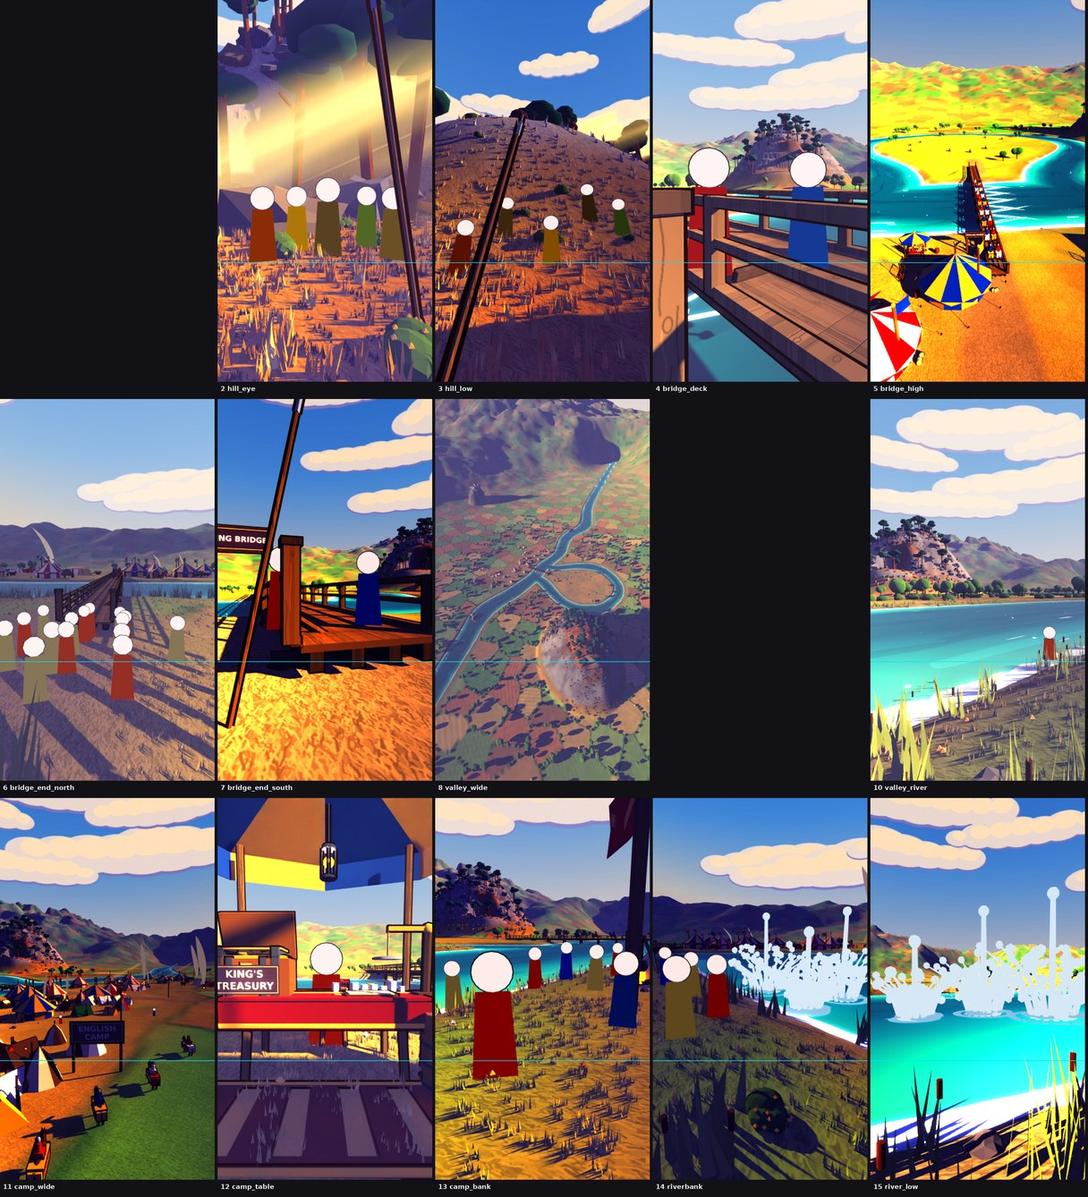
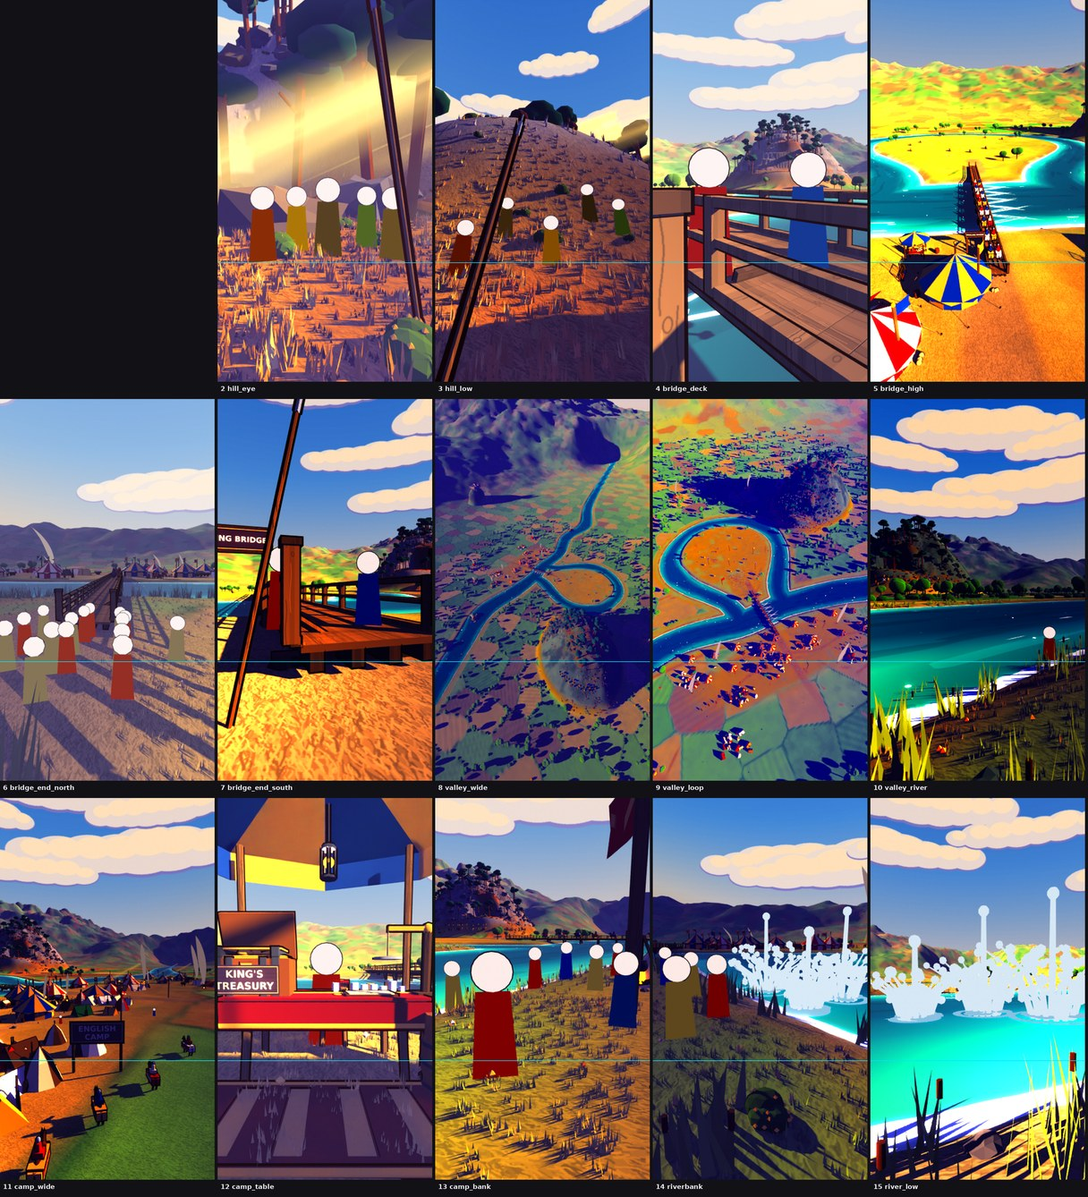
film21 s10: scripts

Changed region(s): [[0.375, 0.3064, 1.0, 0.6741]]

diff --git a/film/v3/set3d21/stirling.py b/film/v3/set3d21/stirling.py
@@ -18,7 +18,7 @@ D = 1.7
 HEIGHT = {'scot': 1.70, 'wallace': 1.92, 'moray': 1.80, 'cressingham': 1.78, 'surrey': 1.66, 'knight': 1.78, 'foot': 1.68, 'archer': 1.66, 'squire': 1.55}
 STATE = {'P': None, 'ink_t': 0.012, 'anim': {}, 'loc': None, 'preset': None, 'cam': (0, 0, 0)}
 CACHE = os.path.join(HERE, 'cache'); os.makedirs(CACHE, exist_ok=True)
-TERRAIN_V = 29
+TERRAIN_V = 33
 
 def hex_lin(h):
     h = h.lstrip('#'); c = [int(h[i:i + 2], 16) / 255.0 for i in (0, 2, 4)]
@@ -45,8 +45,8 @@ def _pal():
     add('wood', '#8a6a45', tex=wood, tile=1.5, tint=True, ink=True, sm=(0.8, 1.0, 1.12))
     add('wood_dk', '#5e4630', tex=wooddk, tile=1.5, tint=True, ink=True, sm=(0.8, 1.0, 1.12))
     add('deck', '#8c6c48', tex=wood, tile=1.5, tint=True, ink=False, sm=(0.8, 1.0, 1.12), rot=90.0)
-    add('rock', '#77737f', tint=True, ink=False, sm=(0.85, 0.98, 1.1), afl=0.15)
-    add('rock_warm', '#85766d', tint=True, ink=False, sm=(0.85, 0.98, 1.1))
+    add('rock', '#566864', tint=True, ink=False, sm=(0.85, 0.98, 1.1), afl=0.15)
+    add('rock_warm', '#5e6a5c', tint=True, ink=False, sm=(0.85, 0.98, 1.1))
     add('heather', '#7a4f72', tint=True, sm=(0.6, 1.05, 1.0), afl=0.18)
     add('bracken', '#b0742f', tint=True, sm=(0.85, 1.0, 1.15))
     add('grass', '#6c9a3a', tint=True, sm=(0.75, 1.0, 1.15), afl=0.2)
@@ -429,7 +429,7 @@ def lane_w(X, Y):
     return w
 def terrain_colour(X, Y, z, sd, hh, cm):
     m1 = fbm(X / 38.0, Y / 38.0, 7, 3); m2 = fbm(X / 13.0, Y / 13.0, 9, 3); m3 = fbm(X / 5.0, Y / 5.0, 21, 2)
-    G1, G2, G3, G4 = hex_rgb('#b49a44'), hex_rgb('#c8a64a'), hex_rgb('#7c9a38'), hex_rgb('#b8a840')
+    G1, G2, G3, G4 = hex_rgb('#b8aa52'), hex_rgb('#c6b45c'), hex_rgb('#7c9a38'), hex_rgb('#b8a840')
     col = G1 + (G2 - G1) * smooth(0.5, 0.78, m1)[..., None]
     col = col + (G3 - col) * (smooth(0.58, 0.78, m2) * 0.55)[..., None]; col = col + (G4 - col) * (smooth(0.62, 0.8, m3) * 0.4)[..., None]
     # river margins: lush, then mud
@@ -438,7 +438,7 @@ def terrain_colour(X, Y, z, sd, hh, cm):
     bed = smooth(-1.0, -2.6, sd); col = col + (hex_rgb('#3a5a60') - col) * bed[..., None]
     # patchwork fields: irregular cells of 6 tints (green-gold, ochre, heather brown, pale green, gold, plough) with hedgerows and furrows
     fid, he = vor_fields(X, Y)
-    pal = np.array([hex_rgb('#8fb83e'), hex_rgb('#cfa94c'), hex_rgb('#b08a4e'), hex_rgb('#a8c84a'), hex_rgb('#dcc04c'), hex_rgb('#6fa63c'), hex_rgb('#c8903e'), hex_rgb('#86a840')]); fc = pal[np.minimum((fid * 8).astype(int), 7)]
+    pal = np.array([hex_rgb('#7aa856'), hex_rgb('#bcb47c'), hex_rgb('#6a9a4c'), hex_rgb('#88ad5e'), hex_rgb('#c2ba84'), hex_rgb('#5f8f48'), hex_rgb('#847a5a'), hex_rgb('#74a050')]); fc = pal[np.minimum((fid * 8).astype(int), 7)]
     ang = fid * 6.28; fur = 0.5 + 0.5 * np.sin((X * np.cos(ang) + Y * np.sin(ang)) * 1.1); fc = fc * (0.93 + 0.12 * m3[..., None]) * (0.93 + 0.12 * fur[..., None] * (fid > 0.55)[..., None])
     hedge = smooth(2.2, 0.4, he); fc = fc + (hex_rgb('#3a6a2e') - fc) * hedge[..., None] * 0.9
     ex = (X / 80.0) ** 2 + ((Y - 125.0) / 92.0) ** 2; fw = smooth(0.9, 1.15, ex) * smooth(5.0, 11.0, sd) * smooth(6.0, 1.0, np.maximum(hh, 0))
@@ -455,13 +455,13 @@ def terrain_colour(X, Y, z, sd, hh, cm):
     w = w * smooth(-0.5, 1.0, sd); col = col + (dirt - col) * w[..., None]
     # hill: heather, bracken, grass skirt, rock
     h2 = np.maximum(hh, 0); wh = smooth(1.0, 10.0, h2)
-    H1, H2, H3, BR = hex_rgb('#86583c'), hex_rgb('#946040'), hex_rgb('#6c4a34'), hex_rgb('#c0802c')
-    hc = H1 + (H2 - H1) * smooth(0.4, 0.7, m2)[..., None]; hc = hc + (H3 - hc) * (smooth(0.55, 0.8, m3) * 0.6)[..., None]; hc = hc + (BR - hc) * (smooth(0.5, 0.7, fbm(X / 11.0, Y / 11.0, 33, 3)) * 0.85)[..., None]
+    H1, H2, H3, BR = hex_rgb('#6e5a3a'), hex_rgb('#5c6a3c'), hex_rgb('#46593a'), hex_rgb('#b0803a')
+    hc = H1 + (H2 - H1) * smooth(0.4, 0.7, m2)[..., None]; hc = hc + (H3 - hc) * (smooth(0.55, 0.8, m3) * 0.6)[..., None]; hc = hc + (BR - hc) * (smooth(0.5, 0.7, fbm(X / 11.0, Y / 11.0, 33, 3)) * 0.3)[..., None]
     grass_skirt = smooth(24.0, 6.0, h2) * 0.6; hc = hc + (col - hc) * grass_skirt[..., None]
     col = col + (hc - col) * wh[..., None]
     e = 0.6; hx = (hill_h(X + e, Y)[0] - hill_h(X - e, Y)[0]) / (2 * e); hy = (hill_h(X, Y + e)[0] - hill_h(X, Y - e)[0]) / (2 * e); slope = np.hypot(hx, hy)
     rk = smooth(0.62, 1.05, slope) * smooth(6, 16, h2) + cm * 0.85 * smooth(12, 30, h2); rk = np.clip(rk, 0, 1)
-    R1, R2 = hex_rgb('#9a97a2'), hex_rgb('#77727e'); rc = R1 + (R2 - R1) * smooth(0.4, 0.75, m2)[..., None]; rc = rc + (hex_rgb('#a9a79a') - rc) * (smooth(0.62, 0.8, m3) * 0.6)[..., None]
+    R1, R2 = hex_rgb('#62746e'), hex_rgb('#3f504c'); rc = R1 + (R2 - R1) * smooth(0.4, 0.75, m2)[..., None]; rc = rc + (hex_rgb('#6c7e70') - rc) * (smooth(0.62, 0.8, m3) * 0.6)[..., None]
     rk = rk * (1 - smooth(PAD[2] + 12.0, PAD[2] + 2.0, np.hypot(X - PAD[0], Y - PAD[1])) * 0.95); col = col + (rc - col) * rk[..., None]
     # castle rock
     ch = castle_h(X, Y); crk = smooth(4.0, 25.0, ch); cg = rc * 0.95 + (hex_rgb('#7a9a46') - rc * 0.95) * (smooth(0.5, 0.7, m1) * 0.2)[..., None]
@@ -634,10 +634,7 @@ def grade(path, sat=1.07, bloom=0.5, scale=None, gamma=1.28):
     vv = tuple(STATE.get('vivid') or VIVID.get(STATE.get('preset'), (1.4, 1.3))); vg, vs = vv[0], vv[1]; ve = vv[2] if len(vv) > 2 else 1.0
     im = np.clip(im * ve, 0, 1) ** vg; mx = im.max(-1, keepdims=True); im = np.clip(mx - (mx - im) * vs, 0, 1)
     Image.fromarray((im * 255 + 0.5).astype(np.uint8)).save(path)
-VIVID = {'bridge_deck': (1.78, 1.15), 'bridge_end_north': (1.38, 1.23), 'bridge_end_south': (1.9, 1.15), 'bridge_high': (1.9, 1.15),
-         'camp_bank': (1.52, 1.3), 'camp_table': (1.05, 1.1), 'camp_wide': (1.9, 1.15), 'hill_eye': (0.8, 1.31), 'hill_low': (1.38, 1.15),
-         'hill_over': (1.48, 1.15), 'river_low': (1.9, 1.3), 'riverbank': (1.5, 1.6), 'valley_loop': (1.07, 1.71), 'valley_river': (2.28, 1.18),
-         'valley_wide': (1.11, 1.83), 'P_TOP': (1.4, 1.1, 0.75)}
+VIVID = {'bridge_deck': (1.78, 1.15), 'bridge_end_north': (1.38, 1.23), 'bridge_end_south': (1.9, 1.15), 'bridge_high': (1.9, 1.15), 'camp_bank': (1.52, 1.3), 'camp_table': (1.05, 1.1), 'camp_wide': (1.9, 1.15), 'hill_eye': (0.8, 1.31), 'hill_low': (1.38, 1.15), 'hill_over': (1.48, 1.15), 'river_low': (1.9, 1.3), 'riverbank': (1.5, 1.6), 'valley_loop': (1.35, 1.15, 0.8), 'valley_river': (2.28, 1.3, 1.0), 'valley_wide': (1.3, 1.2, 0.85), 'P_TOP': (1.4, 1.1, 0.75), 'P_A': (1.3, 1.2, 0.85), 'P_HOOK': (1.4, 1.1, 0.75)}
 def render(path, mode='final', samples=None, do_grade=True):
     sc = bpy.context.scene; setup_render(sc, mode, samples); sc.render.filepath = path; t = time.time(); bpy.ops.render.render(write_still=True); dt = time.time() - t
     if do_grade: grade(path)
@@ -1313,6 +1310,24 @@ def spear_wall(n, ranks, rs, y0=27.0, half=9.0):
     Bp = Batch(87)
     for sx in (-half - 1.0, half + 1.0): banner(Bp, (sx, y0 - 0.5, float(ground(sx, y0))), 5.0, 190, 't_saltire', 't_white', 'saltire', rs, size=(2.2, 1.5))
     Bp.finalize('wall_banners'); return cnt
+def scots_wide_line(n=26, banners=3, scale=1.7, toward=(445.0, 244.0), hh0=30.0):
+    """a version of the Scots line for the far wide shots (valley_wide, P_A): a row (2 ranks) along a contour of Abbey Craig (height `hh0`) on the side that FACES `toward` (default: the
+    far-wide camera, north-east), on open slope out from under the pines, in blue and ochre tunics scaled up (`scale`), with `banners` oversized blue saltire banners (14 m poles,
+    7 x 4.6 m cloth) that stay findable on a 360x640 sheet. preset key `scots_wide=True` or build_world(..., scots_wide=True). Returns the number of figures."""
+    B = Batch(88); rs = np.random.RandomState(13); cnt = 0; mats = ['t_saltire', 'thatch', 't_saltire', 'hay', 't_brown']; Bp = Batch(89); a_c = math.atan2(toward[1] - HILL_C[1], toward[0] - HILL_C[0]); pts = []
+    for rank in range(2):
+        for k in range(n // 2):
+            a = a_c + math.radians(-26 + 52 * (k + 0.5 * rank) / max(n // 2 - 1, 1))
+            for r_ in np.arange(120, 20, -1.0):
+                x = HILL_C[0] + r_ * math.cos(a) * 1.05; y = HILL_C[1] + r_ * 0.9 * math.sin(a)
+                if float(hill_h(np.array([x]), np.array([y]))[0][0]) > hh0 - 2.5 * rank: break
+            pts.append((x, y, rank))
+    for (x, y, rank) in pts:
+        z = float(ground(x, y)); m = mats[(cnt + rank) % 5]
+        B.box(m, (x, y, z + 0.8 * scale), (0.8 * scale, 0.6 * scale, 1.5 * scale)); B.sphere('iron', (x, y, z + 1.7 * scale), 0.22 * scale, seg=6, rings=4); spear(B, (x + 0.4 * scale, y, z), tilt=(rs.uniform(-0.2, 0.2), rs.uniform(-0.2, 0.2)), h=3.4 * scale); cnt += 1
+    for i in range(banners):
+        x, y, _ = pts[int((i + 0.5) * len(pts) / 2 / banners)]; banner(Bp, (x, y, float(ground(x, y))), 14.0, math.degrees(a_c) + 90.0, 't_saltire', 't_white', 'saltire', rs, size=(7.0, 4.6))
+    B.finalize('scots_wide', ink=False); Bp.finalize('scots_wide_banners'); return cnt
 def crowd_loop(A, pr):
     """~120 tiny placeholder troops for valley_loop: English inside the loop meadow and the neck, a two-by-two column of mounted knights on the bridge, a queue and
     groups on the south bank; Scots along the hill's lower slope."""
@@ -1411,7 +1426,7 @@ PRESETS['camp_bank'] = dict(loc='camp', signs=['stirling'], shafts='smoke', cam=
     veg=dict(seed=6, half=20, tuft_k=1.3, tuft_gain=1.5, grass=[(1.5, 9, 420, 0.08, 0.13), (9, 40, 700, 0.12, 0.2)], flowers=700, reeds=[(6, 70, 500)]),
     fg_banner=(7.0, 2.3), clear=[(-95.0, -15.0, 9.0)], fg_banner_yaw=30, fg_spears=[], fg_barrels=[(3.0, 1.7)], fg_rope=True, camp_fg=camp_fg)
 PRESETS['valley_loop'] = dict(loc='valley', cam=(-72.0, -133.0, 229.0), look=(12.0, 36.0, 0.0), sd=300.0, lens=21.0, marks=lambda A: {}, veg=None, farms=True, hill2=True, heather_n=900, gorse_n=200, crag_n=140, pine_n=60,
-    over=dict(foam_k=3.0, glit_s=0.35, glit_t=0.12, glit_stretch=1.0, wake_k=4.0, haze_max=0.2, world=0.0, lift=(0.03, 0.028, 0.07), key=(2.05, 1.58, 0.84), shade=(0.12, 0.10, 0.30), tint=(0.065, 0.052, 0.15), sun_dir=(-0.68, 0.68, -0.28)))
+    over=dict(shallow='#2e9a92', sheen_k=0.45, foam_k=1.4, glit_s=0.35, glit_t=0.12, glit_stretch=1.0, wake_k=4.0, haze_max=0.2, world=0.0, lift=(0.03, 0.028, 0.07), key=(2.05, 1.58, 0.84), shade=(0.12, 0.10, 0.30), tint=(0.065, 0.052, 0.15), sun_dir=(-0.68, 0.68, -0.28)))
 for _n, _fn in (('hill_over', fg_hill), ('camp_bank', fg_bank)): PRESETS[_n]['fg'] = _fn
 PRESETS['hill_over']['crowd'] = crowd_hill; PRESETS['valley_loop']['crowd'] = crowd_loop
 
@@ -1537,7 +1552,7 @@ def _mk(name, **kw):
 _VEG = dict(seed=7, half=26, tuft_k=1.3, tuft_gain=1.5, grass=[(1.5, 9, 450, 0.08, 0.13), (9, 40, 800, 0.12, 0.2)], flowers=500)
 _OVR = dict(glit_stretch=1.0, glit_s=0.9, foam_k=2.0, wake_k=2.0, sun_k=1.6)
 _HV = dict(seed=5, half=30, no_chips=True, hill_grass=0.5, grass=[(2, 14, 900, 0.1, 0.17), (14, 40, 900, 0.2, 0.34)], flowers=200, sprig_to=40, heather=[(1.5, 8, 500, 0.09, 0.14), (8, 20, 700, 0.12, 0.2), (20, 60, 900, 0.2, 0.4)], gorse=[(3, 14, 6), (14, 40, 14)])
-_VOVR = dict(foam_k=3.0, glit_s=0.35, glit_t=0.12, glit_stretch=1.0, wake_k=4.0, haze_max=0.2, world=0.0, lift=(0.03, 0.028, 0.07), key=(2.05, 1.58, 0.84), shade=(0.12, 0.10, 0.30), tint=(0.065, 0.052, 0.15), sun_dir=(-0.68, 0.68, -0.28))
+_VOVR = dict(shallow='#2e9a92', sheen_k=0.45, foam_k=1.4, glit_s=0.35, glit_t=0.12, glit_stretch=1.0, wake_k=4.0, haze_max=0.2, world=0.0, lift=(0.03, 0.028, 0.07), key=(2.05, 1.58, 0.84), shade=(0.12, 0.10, 0.30), tint=(0.065, 0.052, 0.15), sun_dir=(-0.68, 0.68, -0.28))
 # hill_eye / hill_low: on the Scots' shelf (x 131, y 131, 15 m up), looking up the slope at the line
 _mk('hill_eye', loc='hill', shafts='pines', cam=(128.0, 128.0, 0.0), cam_dz=1.75, cam_ref=(128.0, 128.0), look=(144.0, 144.0, 20.5), lens=22.0, sd=9.0, over=dict(_OVR),
     marks_spec=[('s1', 'scot:scot_b', 5.2, 150), ('s2', 'scot:scot_o', 6.0, 265), ('w', 'wallace', 5.6, 370), ('s3', 'scot:scot_m', 6.4, 500), ('s4', 'scot', 5.4, 590)],
@@ -1556,9 +1571,9 @@ _mk('bridge_end_north', loc='bridge', cam=(-2.0, 50.0, 4.6), look=(0.0, 22.0, 1.
     marks_spec=[('e1', 'foot', 7.0, 170), ('e2', 'foot:foot_r', 9.0, 420), ('e3', 'foot', 8.0, 600), ('e4', 'foot:foot_r', 11.0, 300)], troops=dict(bridge=10, causeway=12),
     fg_list=[('gorse', 2.0, 650, 0.5), ('reeds', 2.0, 60)], veg=dict(_VEG, reeds=[(6, 40, 160)]), drift='push 8 %/s')
 # valley
-_mk('valley_wide', loc='valley', cam=(445.0, 244.0, 361.0), look=(64.0, 44.0, 0.0), lens=22.0, sd=300.0, farms=True, over=dict(_VOVR), marks_spec=[], troops=dict(bridge=14, meadow=60, causeway=10),
+_mk('valley_wide', loc='valley', scots_wide=True, cam=(445.0, 244.0, 361.0), look=(64.0, 44.0, 0.0), lens=22.0, sd=300.0, farms=True, over=dict(_VOVR), marks_spec=[], troops=dict(bridge=14, meadow=60, causeway=10),
     heather_n=900, gorse_n=200, crag_n=140, pine_n=60, scots_line=True, drift='crane down + push 6 %/s')
-_mk('valley_river', loc='valley', cam=(38.0, -24.0, 0.0), cam_dz=2.1, look=(105.0, 28.0, 4.0), lens=22.0, sd=12.0, over=dict(_OVR, reed_k=0.6), farms=True, scots_line=True,
+_mk('valley_river', loc='valley', cam=(38.0, -24.0, 0.0), cam_dz=2.1, look=(105.0, 28.0, 4.0), lens=22.0, sd=12.0, over=dict(_OVR, reed_k=0.6, foam_k=1.0, shallow='#2e9a92', sheen_k=0.5), farms=True, scots_line=True,
     marks_spec=[('e1', 'foot', 22.0, 130), ('e2', 'foot:foot_r', 10.0, 600)], fg_list=[('reeds', 2.2, 90), ('reeds', 2.0, 640), ('rock', 2.4, 400, 0.5)], veg=dict(_VEG, half=30, reeds=[(4, 70, 700)]), drift='push 7 %/s + slide')
 # camp
 _mk('camp_wide', loc='camp', signs=['english'], shafts='smoke', cam=(-78.0, -96.0, 13.0), look=(12.0, -52.0, 2.0), lens=22.0, sd=40.0, over=dict(_OVR), parade=[(12, 110), (17, 330), (22, 520), (30, 640)], parade_yaw=35.0,
@@ -1667,8 +1682,8 @@ def preset_extras(A, pr):
     if pr.get('lantern') and A.get('camp', {}).get('table'): table_lantern(A, pr)
 
 # ================================================================ CONNECTED WORLD + CAMERA PATH (client rule 2026-11-20: the camera travels instead of cutting)
-WORLD_OVR = dict(glit_stretch=1.0, glit_s=0.6, glit_t=0.11, foam_k=2.5, wake_k=3.0, sun_k=1.8, reed_k=0.6, haze_max=0.2)
-POSES = {'P_A': ((290.0, 205.0, 170.0), (120.0, 110.0, 10.0), 22.0), 'P_NECK': ((-2.0, 50.0, 4.6), (0.0, 22.0, 1.8), 22.0), 'P_TOP': ((-10.0, -115.0, 115.0), (0.0, 70.0, 0.0), 22.0),  # v2 2026-11-20: from the south, heading north (no spin), south bank in frame
+WORLD_OVR = dict(shallow='#2e9a92', sheen_k=0.5, glit_stretch=1.0, glit_s=0.6, glit_t=0.11, foam_k=1.5, wake_k=3.0, sun_k=1.8, reed_k=0.6, haze_max=0.2)
+POSES = {'P_A': ((40.0, 10.0, 95.0), (150.0, 140.0, 20.0), 22.0), 'P_A_OLD': ((290.0, 205.0, 170.0), (120.0, 110.0, 10.0), 22.0), 'P_HOOK': ((-60.0, -260.0, 230.0), (60.0, 60.0, 0.0), 22.0), 'P_NECK': ((-2.0, 50.0, 4.6), (0.0, 22.0, 1.8), 22.0), 'P_TOP': ((-10.0, -115.0, 115.0), (0.0, 70.0, 0.0), 22.0),  # v2 2026-11-20: from the south, heading north (no spin), south bank in frame
          'P_TOP_OLD': ((-10.0, -40.0, 120.0), (0.0, 80.0, 0.0), 22.0),
          'P_CAMP': 'camp_wide', 'P_BANK': 'camp_bank'}          # named join poses (loc, look, lens) for cam_path keys; P_CAMP / P_BANK are the camp_wide / camp_bank presets
 RIM_GOLD = '#ffc766'
@@ -1685,7 +1700,7 @@ def preset_pose(name):
     pr = PRESETS[name]
     if pr.get('cam_dz') is not None: ref = pr.get('cam_ref', pr['cam'][:2]); pr['cam'] = (pr['cam'][0], pr['cam'][1], float(ground(ref[0], ref[1])) + pr['cam_dz'])
     return tuple(pr['cam']), tuple(pr['look']), pr.get('lens', 22.0)
-def build_world(presets, light='MORNING', fg=True, hide=(), over=None, placeholders=False):
+def build_world(presets, light='MORNING', fg=True, hide=(), over=None, placeholders=False, shafts='auto', scots_wide=None):
     """ONE scene with the whole valley (terrain, river, loop, bridge, camp, Abbey Craig, castle, farms) plus the near-camera dressing of every preset in `presets`
     (foreground props, grass, reeds, heather, the money table extras, camp dressing, the Scots line, troops, signs, shafts, lantern). A camera can fly from one preset's pose
     to another's in this scene (see cam_path). fg = True builds every listed preset's foreground props, False none, or a list of preset names that keep them; `hide` = preset
@@ -1712,6 +1727,8 @@ def build_world(presets, light='MORNING', fg=True, hide=(), over=None, placehold
         if pr.get('far_scots'): A['far_scots'] = scots_slope_line(22, 1, 1.45, np.random.RandomState(8), spear_h=3.2, a0=200, a1=250, hh0=7.0)
         if pr.get('bridge_pairs'):
             Bk = Batch(84); y0_, y1_, st_ = pr['bridge_pairs']; knight_pair_column(Bk, bridge_pairs(y0_, y1_, st_), BRIDGE_X, np.random.RandomState(9), KNIGHT_MATS); Bk.finalize('bridge_knights')
+    if scots_wide is None: scots_wide = any(PRESETS[p].get('scots_wide') for p in presets)
+    if scots_wide: A['scots_wide'] = scots_wide_line()
     if any(PRESETS[p].get('scots_line') for p in presets): A['scots_line'] = scots_slope_line(30, 3, 1.0, np.random.RandomState(3), spear_h=4.0) + spear_wall(14, 2, np.random.RandomState(4))
     first = presets[0] if presets else None
     cam0 = A['cams'][first] if first else ((0, -60, 40), (0, 0, 0), 22.0); camera(cam0[0], cam0[1], cam0[2]); cam = bpy.context.scene.camera
@@ -1720,7 +1737,8 @@ def build_world(presets, light='MORNING', fg=True, hide=(), over=None, placehold
         if pr.get('marks'): A['marks'][p] = pr['marks'](A)
         if pr.get('crowd') and keep(p) and p not in hide: pr['crowd'](A, pr)
     for where_, n_ in P0['troops'].items(): place_troops(A, where_, n_, seed=1)
-    preset_extras(A, dict(P0, signs=P0['signs'], cam=A['cams'][first][0] if first else None, lantern=any(PRESETS[p].get('lantern') for p in presets), shafts=P0['shafts']))
+    if shafts == 'auto': shafts = not any(p.startswith('valley_') for p in presets)          # no light shafts in the far-wide views (they read as flat slabs from above)
+    preset_extras(A, dict(P0, signs=P0['signs'], cam=A['cams'][first][0] if first else None, lantern=any(PRESETS[p].get('lantern') for p in presets), shafts=P0['shafts'] if shafts else None))
     if placeholders:
         for p in presets:
             if A['marks'].get(p): stage_placeholders(A, cam=cam, marks=A['marks'][p])
@@ -1781,6 +1799,7 @@ def build_for_cli(preset, light='MORNING', placeholders=True):
     if pr.get('scots_line') and not nofg and preset != 'valley_loop': A['scots_line'] = scots_slope_line(30, 3, 1.0, np.random.RandomState(3), spear_h=4.0) + spear_wall(14, 2, np.random.RandomState(4))
     for i_, (sx_, sy_, sa_) in enumerate(pr.get('splashes') or []):
         if not nofg: splash(sx_, sy_, (pr.get('splash_ages') or [0.35, 0.55, 0.8])[i_ % 3], pr.get('splash_size', 1.0), name=str(i_), seed=i_)
+    if pr.get('scots_wide') and not nofg: A['scots_wide'] = scots_wide_line()
     if pr.get('far_scots') and not nofg: rs_ = np.random.RandomState(8); A['far_scots'] = scots_slope_line(22, 1, 1.45, rs_, spear_h=3.2, a0=200, a1=250, hh0=7.0)
     if pr.get('bridge_pairs') and not nofg:
         Bk = Batch(84); y0_, y1_, st_ = pr['bridge_pairs']; knight_pair_column(Bk, bridge_pairs(y0_, y1_, st_), BRIDGE_X, np.random.RandomState(9), KNIGHT_MATS); Bk.finalize('bridge_knights')

diff --git a/film/v3/set3d21/palette_fix.py b/film/v3/set3d21/palette_fix.py
@@ -1,0 +1,19 @@
+#!/usr/bin/env python3
+"""palette check of the far-wide views: valley_wide (preset), P_A and P_TOP (named poses in one world) as drafts 360x640 side by side -> styleboard/palette_fix.jpg, with sat / vivid % / luma
+(qa_stats metric at 90x160). usage: python3 palette_fix.py [samples]"""
+import os, sys
+HERE = os.path.dirname(os.path.abspath(__file__)); sys.path.insert(0, HERE)
+import numpy as np, bpy, stirling as K
+from PIL import Image, ImageDraw, ImageFont
+smp = int(sys.argv[1]) if len(sys.argv) > 1 else 20; out = []; rows = []
+def stats(f):
+    a = np.asarray(Image.open(f).convert('RGB').resize((90, 160), Image.BILINEAR), float); mx = a.max(-1); mn = a.min(-1); sat = (mx - mn) / (mx + 1e-3); return sat.mean(), (sat > 0.5).mean() * 100, a.mean()
+A = K.build_world(['valley_wide'], scots_wide=True)
+for n in ('P_A', 'P_TOP'):
+    K.cam_path(None, [(0, n), (1, n)], 0); f = os.path.join(HERE, 'styleboard', 'palette_%s.png' % n); K.render(f, 'draft', smp); out.append((n, f))
+import subprocess
+f = os.path.join(HERE, 'styleboard', 'palette_valley_wide.png'); subprocess.run([sys.executable, os.path.join(HERE, 'stirling.py'), 'render', 'valley_wide', '-', f, 'draft', str(smp)], stdout=subprocess.DEVNULL, stderr=subprocess.DEVNULL); out.insert(0, ('valley_wide', f))
+F = ImageFont.truetype('/usr/share/fonts/truetype/dejavu/DejaVuSans-Bold.ttf', 15); S = Image.new('RGB', (360 * 3 + 16, 640), (18, 18, 22))
+for i, (n, f) in enumerate(out):
+    im = Image.open(f).convert('RGB'); sa, vv, lu = stats(f); ImageDraw.Draw(im).text((6, 6), '%s sat %.2f vivid %.0f%% luma %.0f' % (n, sa, vv, lu), fill=(255, 255, 255), font=F); S.paste(im, (i * 368, 0)); print(n, 'sat %.3f vivid %.1f luma %.1f' % (sa, vv, lu))
+S.save(os.path.join(HERE, 'styleboard', 'palette_fix.jpg'), quality=90)

diff --git a/film/v3/set3d21/API.md b/film/v3/set3d21/API.md
@@ -150,3 +150,21 @@ for g in range(0, 96):
 - **P_TOP moved** to `(-10, -115, 115) -> (0, 70, 0)`, 22 mm (old pose kept as `P_TOP_OLD`). It now looks NORTH from above the south bank, so the south-bank half of the army (camp) is in frame above the caption band. A crane up from P_NECK, which looks south, must turn its heading smoothly over the whole move and never pass straight overhead (no 180° spin).
 - `VIVID['P_TOP'] = (1.4, 1.1, 0.75)`: a calm ochre meadow and a deep-blue river, about sat 0.63 / luma 105 at the top view. Use it as the grade at P_TOP.
 - **Story colours of the cork image** (H2a/H2b): the English trapped in the loop are solid CRIMSON (no blue or white caps, packed tighter, softer shadows). The Scots spear wall is 4-5 ranks deep, in BLUE (tint the Scots cards blue for the top view), with 4-6 large saltire banners (at least 25-30 px at P_TOP). The bridge deck ENDS at the wall and does not run past it into the loop.
+
+## 14. Palette fix for the far-wide views (A1 TAKE gate)
+
+- **Farmland tints** (`vor_fields`): 5 muted greens, 2 straw-golds, 1 muted brown (no red, orange or lime tiles). The base meadow colours (`G1..G4`) were moved from gold-orange toward straw-green.
+- **Abbey Craig**: crag rock is slate grey-green (`rock` `#566864`, terrain rock `#62746e` / `#3f504c`, `rock_warm` `#5e6a5c`), the heather/skirt colours are olive and green-brown with 30 % bracken instead of 85 %, so from the far wide it reads as a dark crag with green patches and pines, not a pale lump. The same terrain colours apply to every preset (hill_*, camp_*, ...): their ground is a little greener-grey on the hill, a little more straw in the meadows.
+- **River glow**: valley presets and `WORLD_OVR` use `shallow='#2e9a92'`, `sheen_k` 0.45-0.5 and `foam_k` 1.0-1.5 (was 3.0): the bank glow is about half, the deep teal is unchanged. New water override keys: `shallow` (shallow-water colour), `sheen_k` (grazing sheen strength).
+- **Light shafts**: `build_world(..., shafts='auto')` builds NO shafts when a `valley_*` preset is listed (they read as flat slabs from above); pass `shafts=True` to force them. The valley presets themselves have none. Shafts in the hill/camp presets run along the sun direction (south-east, high, falling toward the north-west/Scots shelf).
+- **VIVID** (3-value, gamma, sat, exposure): `valley_wide` (1.11, 2.38, 1.31), `valley_loop` (0.98, 2.39, 1.23), `valley_river` (2.28, 1.3, 1.0), new `P_A` (1.3, 1.5, 0.96) used by `cam_path` for the P_A pose, `P_TOP` unchanged (1.4, 1.1, 0.75). Measured on 360x640 drafts (qa_stats metric): valley_wide sat 0.59 / vivid 56 % / luma 101, P_A 0.58 / 64 % / 102, P_TOP 0.59 / 73 % / 105, valley_loop 0.58 / 55 % / 102, valley_river 0.60 / 57 % / 98. `python3 palette_fix.py` re-renders the three views -> `styleboard/palette_fix.jpg` with the numbers.
+- **Scots line for the far wide**: `K.scots_wide_line(n=26, banners=3, scale=1.7, toward=(445, 244), hh0=30)` puts a two-rank row of oversized blue/ochre figures along the 30 m contour of Abbey Craig on the side that faces `toward` (default the far-wide camera, north-east), on open slope, with 3 oversized blue saltire banners (14 m poles, 7 x 4.6 m cloth). Flag: preset key `scots_wide=True` (now ON in `valley_wide`) or `build_world(..., scots_wide=True)` (auto-on when a listed preset has the flag). Objects `scots_wide*`; hide with `hide_render`. In P_A it shows at the lower edge of the frame; in valley_wide it is small (about 4 px figures, the banner poles about 15 px).
+- Known: warm ochre/orange still shows in the loop meadow and around the camp in valley_wide / P_A (the low warm sun on the straw meadow); the hill's lower skirt has a thin orange rim.
+
+## 15. Director retune after the palette fix (2026-11-20 19:00)
+- The palette-fix VIVID of valley_wide and valley_loop (sat multipliers about 2.4) made those views violet and orange. They are now calm: valley_wide (1.3, 1.2, 0.85) and valley_loop (1.35, 1.15, 0.8), the same family as P_TOP (1.4, 1.1, 0.75).
+- The valley_wide camera looks toward the sun, so its frame is mostly shade. Do NOT use it as a hero wide.
+- **New `P_HOOK`** = (-60, -260, 230) -> (60, 60, 0), 22 mm, VIVID (1.4, 1.1, 0.75). It is the front-lit extreme wide from the south: the loop, the bridge, the camp and the dark crag in one frame (draft sat 0.48 / luma 92). BIGZOOM 1 (A1) STARTS here.
+- **P_A moved** to (40, 10, 95) -> (150, 140, 20), 22 mm, VIVID (1.3, 1.2, 0.85). It is low over the river SW of Abbey Craig, looking NE at the crag with its pines. The old pose is kept as `P_A_OLD`.
+- **A2** flies from P_A up the crag and arcs around over the Scots, ending behind them looking SW down at the bridge (the hill_over family of poses).
+- Turn on `scots_wide=True` with `toward` set at the P_HOOK/P_A camera, so the Scots line faces the south viewer.
